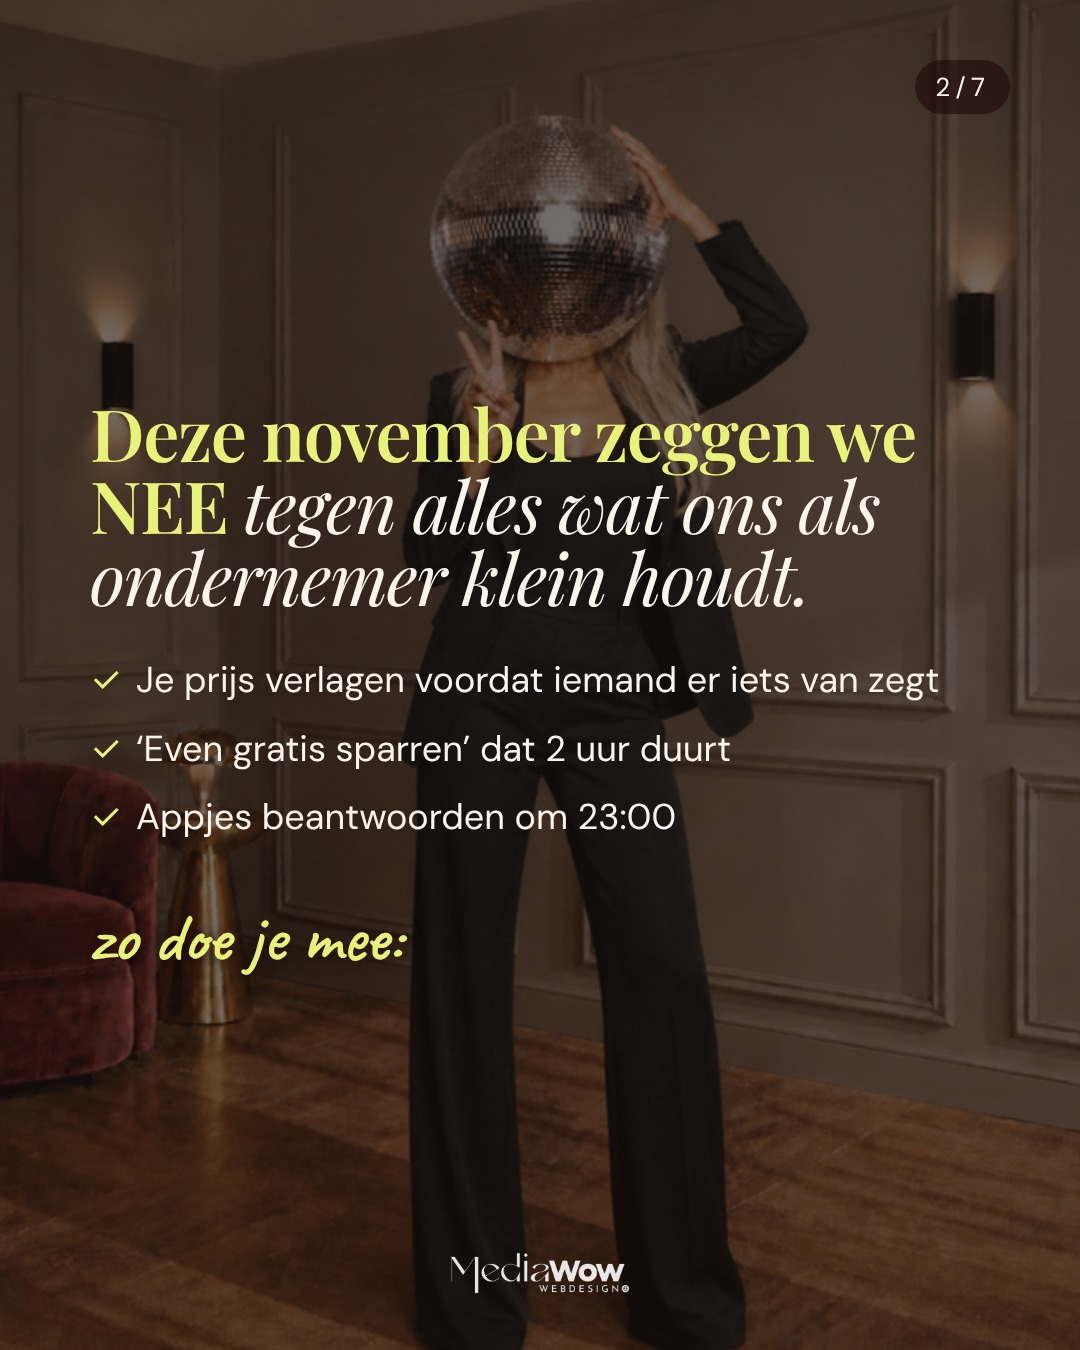
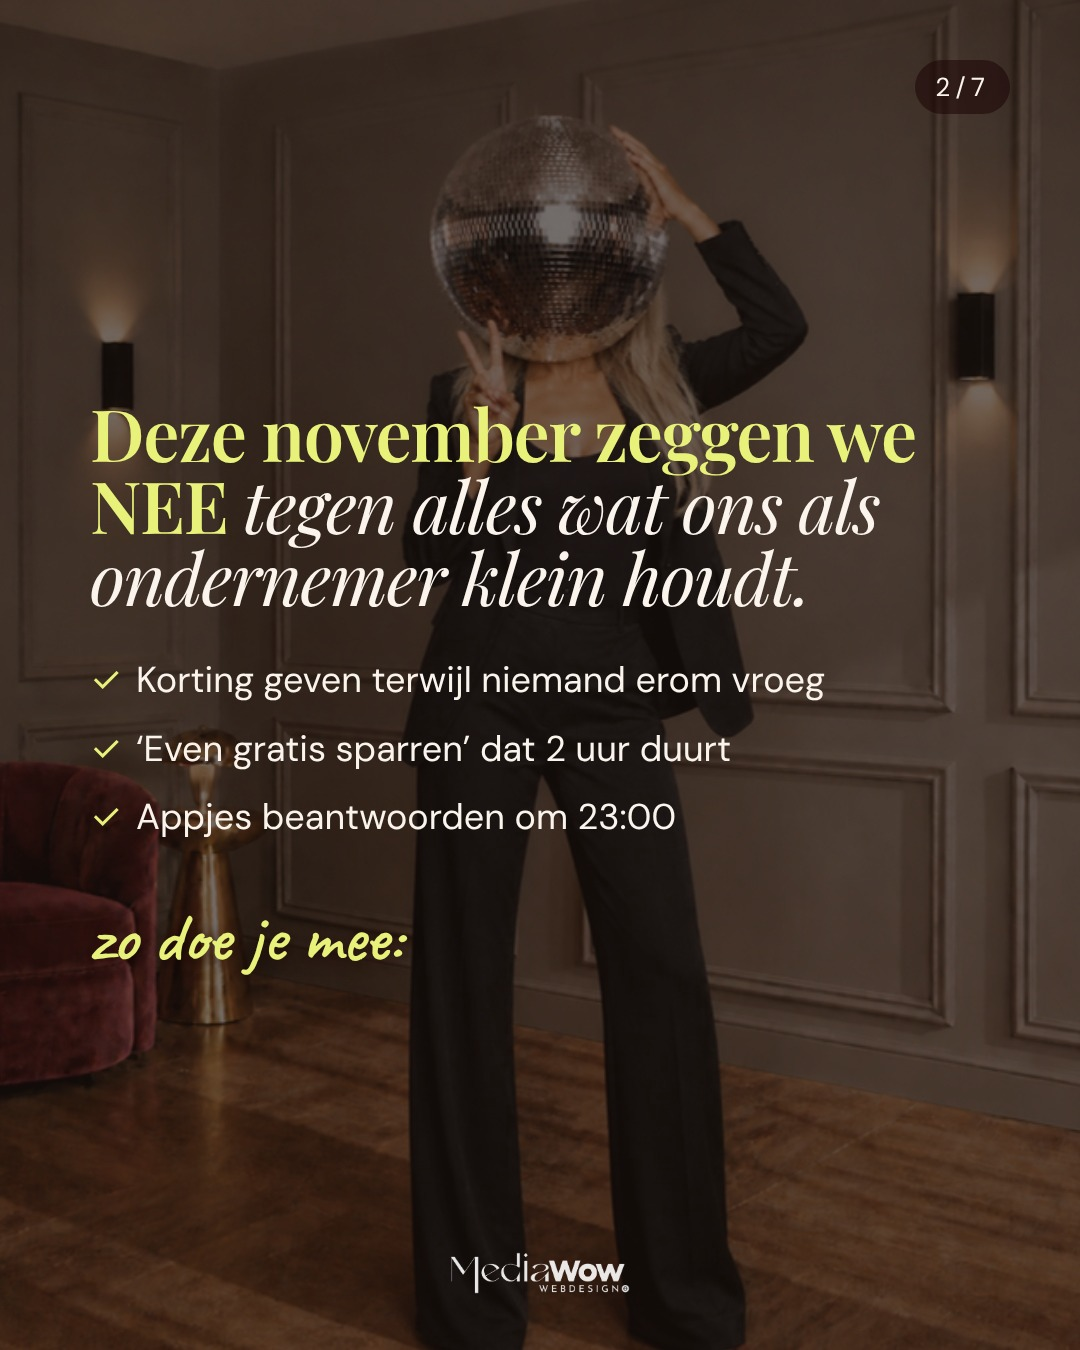
NEE-vember: duidelijkere tekst slide 2
Claude-Session: https://claude.ai/code/session_01RBQ5c9Pv2G8CobvSf5vDwJ

Changed region(s): [[0.1222, 0.4978, 0.8556, 0.5289]]

diff --git a/instagram/nee-vember/make.js b/instagram/nee-vember/make.js
@@ -28,7 +28,7 @@ const slides = [
     <div class="big" style="position:absolute;left:90px;top:690px;font-size:170px">NEE-<br>vember</div>
     <div class="hand" style="position:absolute;left:96px;top:1040px;font-size:76px;color:#FAF4ED">challenge voor ondernemers</div>`, 1, false),
   wrap(`<div class="c"><h2 style="font-size:72px">Deze november zeggen we <span style="color:#E8F27A">NEE</span> <i>tegen alles wat ons als ondernemer klein houdt.</i></h2>
-    <ul><li>Je prijs verlagen voordat iemand er iets van zegt</li><li>‘Even gratis sparren’ dat 2 uur duurt</li><li>Appjes beantwoorden om 23:00</li></ul>
+    <ul><li>Korting geven terwijl niemand erom vroeg</li><li>‘Even gratis sparren’ dat 2 uur duurt</li><li>Appjes beantwoorden om 23:00</li></ul>
     <div class="hand" style="margin-top:50px">zo doe je mee:</div></div>`, 2),
   wrap(`<div class="c"><div class="hand">stap 1</div><h2>Schrijf je NEE-lijst</h2>
     <p>Vijf dingen waar je opgelucht van wordt als je ermee stopt. Een paar ideeën:</p>
